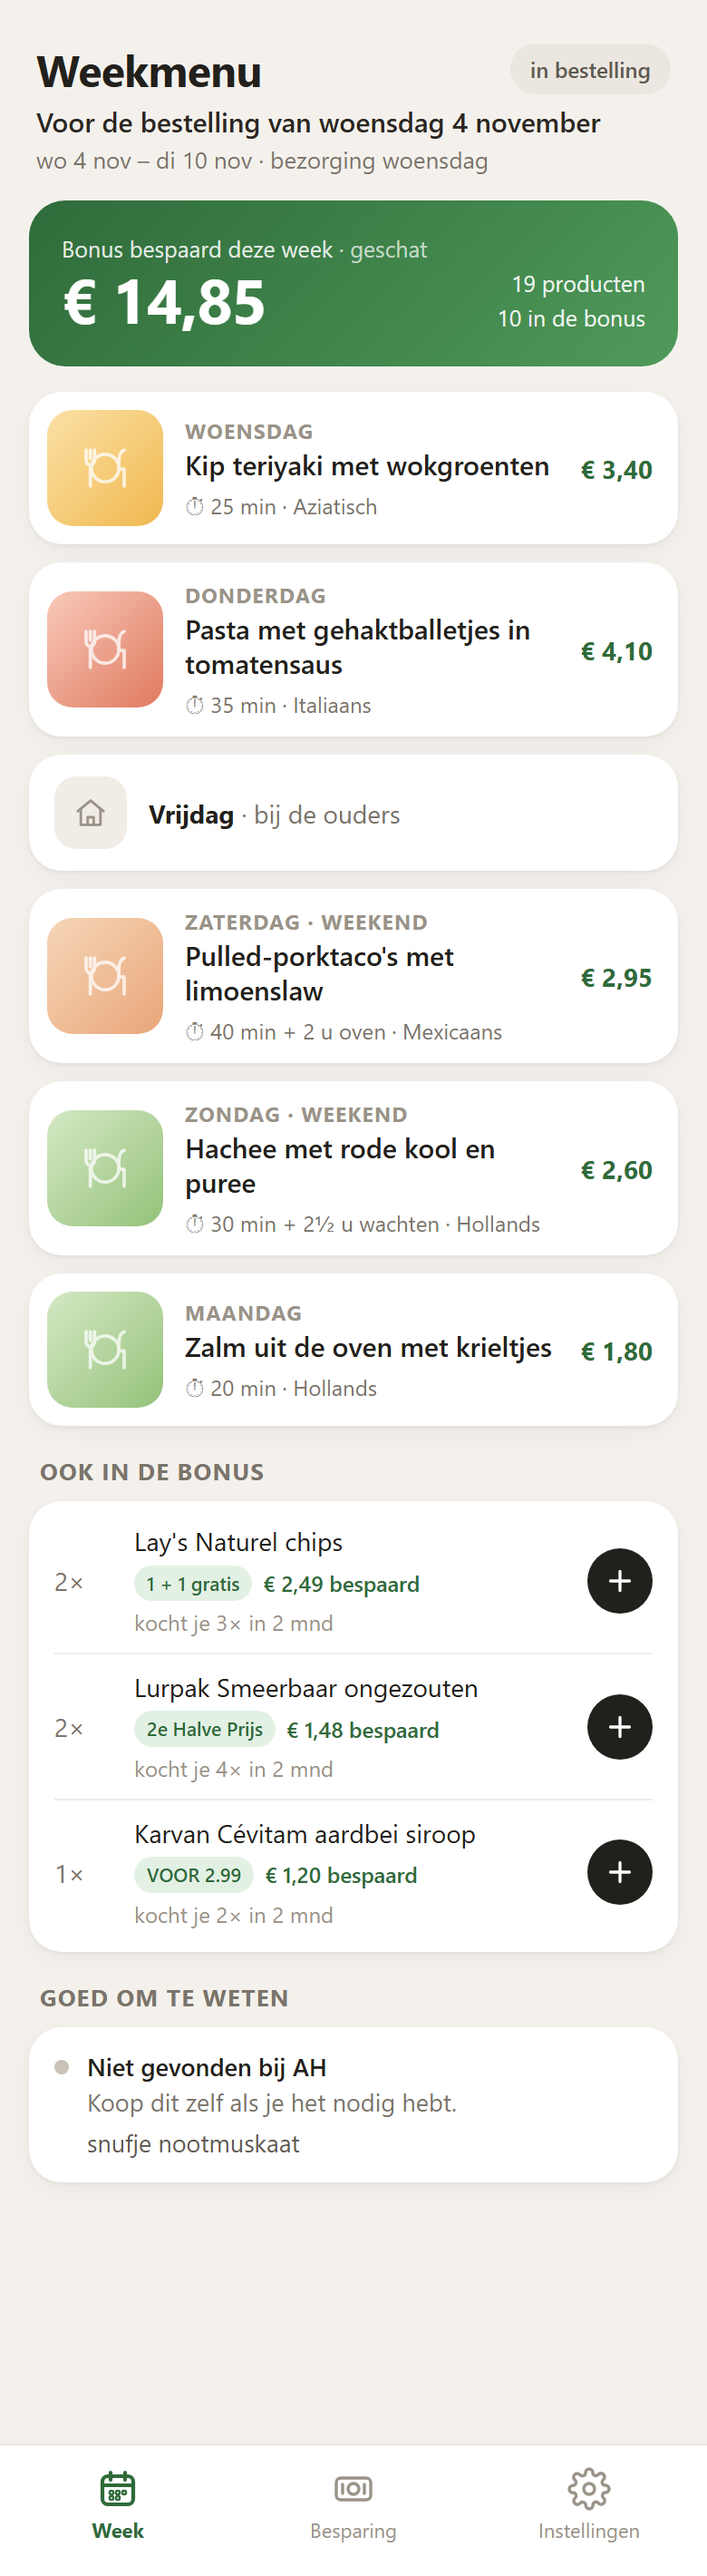
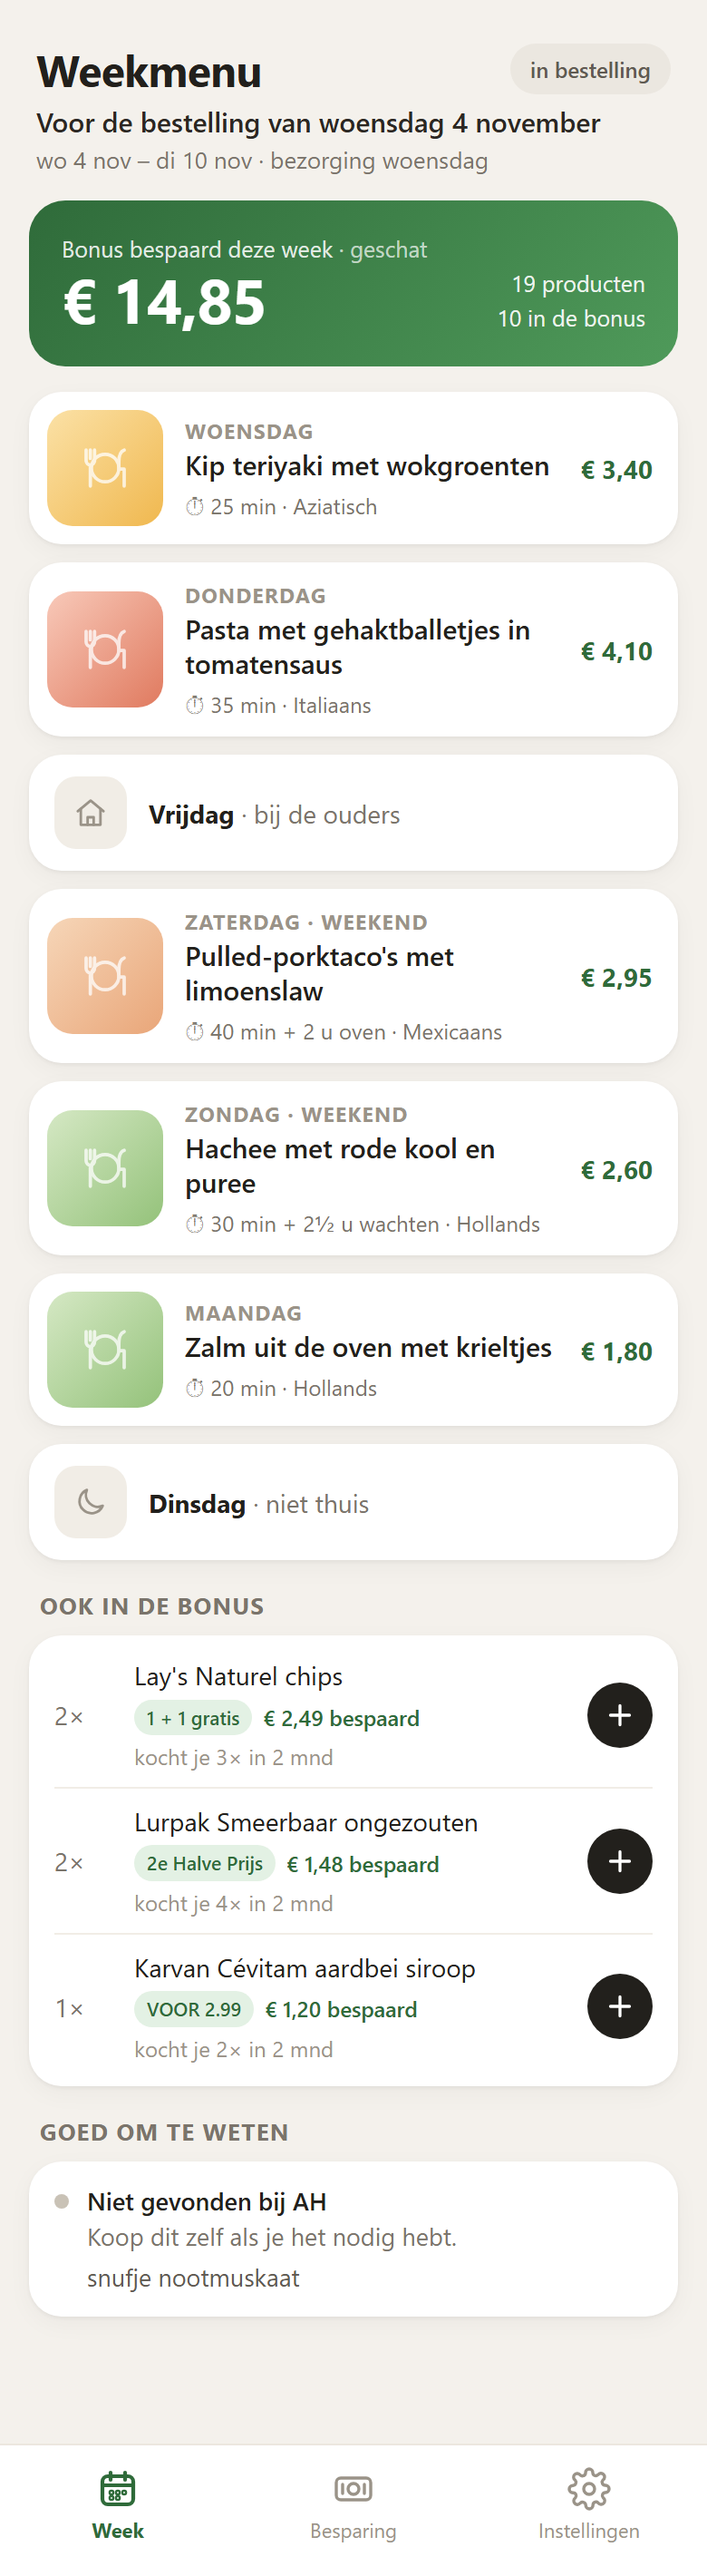
feat: app toont Niet thuis voor 0 personen, instellingen 0 tot 8, versie 0.2.1

Changed region(s): [[0.0615, 0.5577, 0.6769, 0.8986], [0.8308, 0.5887, 0.9231, 0.8056]]

diff --git a/weekmenu/app/static/app.js b/weekmenu/app/static/app.js
@@ -107,6 +107,7 @@ function plural(n, one, many) { return `${n} ${n === 1 ? one : many}`; }
 const ICON = {
   plate: '<svg class="fallback" viewBox="0 0 24 24" aria-hidden="true"><circle cx="12" cy="12" r="6.5"/><path d="M3 3.5v5a2 2 0 0 0 2 2v10M5 3.5v4M7 3.5v5a2 2 0 0 1-2 2M21 3.5c-1.7.6-2.5 2.6-2.5 5.5v3.5H21v8"/></svg>',
   home: '<svg viewBox="0 0 24 24" aria-hidden="true"><path d="M3.5 11 12 4l8.5 7"/><path d="M5.5 9.5V20h13V9.5"/><path d="M10 20v-5h4v5"/></svg>',
+  moon: '<svg viewBox="0 0 24 24" aria-hidden="true"><path d="M20 14.5A8 8 0 0 1 9.5 4 8 8 0 1 0 20 14.5z"/></svg>',
   back: '<svg viewBox="0 0 24 24" aria-hidden="true"><path d="M19 12H5M11 6l-6 6 6 6"/></svg>',
   people: '<svg viewBox="0 0 24 24" aria-hidden="true"><circle cx="9" cy="8" r="3.2"/><path d="M3 19.5c.6-3.3 3-5 6-5s5.4 1.7 6 5"/><circle cx="17" cy="9" r="2.5"/><path d="M16 14.6c2.6-.2 4.5 1.4 5 4.4"/></svg>',
   book: '<svg viewBox="0 0 24 24" aria-hidden="true"><path d="M4 5.5C6.5 4 9.5 4 12 5.5v14C9.5 18 6.5 18 4 19.5z"/><path d="M20 5.5C17.5 4 14.5 4 12 5.5v14c2.5-1.5 5.5-1.5 8 0z"/></svg>',
@@ -295,6 +296,10 @@ function dayCard(d) {
     return `<div class="card skip"><div class="ic">${ICON.home}</div>
       <div><b>${esc(cap(d.dag))}</b> · bij de ouders</div></div>`;
   }
+  if (d.niet_thuis) {
+    return `<div class="card skip"><div class="ic">${ICON.moon}</div>
+      <div><b>${esc(cap(d.dag))}</b> · niet thuis</div></div>`;
+  }
   const r = d.recipe;
   const label = esc(cap(d.dag)) + (tonight ? ' · <span class="now">vanavond</span>'
     : weekend ? " · weekend" : "");
@@ -349,7 +354,10 @@ function weekScreen() {
     html += `<div class="card note"><span class="spin dark"></span><div><b>Er wordt een menu gemaakt</b>
       <span class="muted">Dit duurt meestal een minuut.</span></div></div>`;
   }
-  if (!w.days.length && w.enabled === false) {
+  if (!w.days.length && w.geen_avonden) {
+    html += `<div class="card empty"><b>Alle avonden niet thuis</b>
+      Er wordt geen menu gemaakt. Zet bij Instellingen een avond weer op 1 of meer personen om een menu te krijgen.</div>`;
+  } else if (!w.days.length && w.enabled === false) {
     html += `<div class="card empty"><b>Het weekmenu staat uit</b>
       Er wordt nu geen menu gemaakt. Zet het aan bij Instellingen, of tik op Nu maken.</div>
       <button class="btn pri full" data-run="nu_maken">Nu maken</button>`;
@@ -468,7 +476,8 @@ function settingsScreen() {
   const boxes = WEEK_ORDER.map((dag) => {
     const ouders = dag === s.ouders;
     const n = s.persons[dag];
-    return `<button class="box${ouders ? " x" : ""}" data-pers="${dag}" ${ouders ? "disabled" : ""} aria-label="Personen op ${dag}"><b>${ouders ? "–" : esc(n)}</b>${DAGEN_KORT[dag]}</button>`;
+    const away = !ouders && Number(n) === 0;
+    return `<button class="box${ouders ? " x" : ""}${away ? " away" : ""}" data-pers="${dag}" ${ouders ? "disabled" : ""} aria-label="${away ? `Personen op ${dag}: niet thuis` : `Personen op ${dag}`}"><b>${ouders ? "–" : esc(n)}</b>${DAGEN_KORT[dag]}</button>`;
   }).join("");
   const note = s.defaulted && s.defaulted.length
     ? `<div class="card note"><span class="dot"></span><div><b>Niet alle helpers gevonden in Home Assistant</b><span class="muted">Waar een helper ontbreekt, staat de standaardwaarde.</span></div></div>` : "";
@@ -484,7 +493,7 @@ function settingsScreen() {
         <button data-avonden="${s.avonden + 1}" aria-label="Meer kookavonden" ${s.avonden >= 7 ? "disabled" : ""}>+</button></div></div>
       <div class="lbl2">Bij de ouders</div>
       <div class="tw">${chips}</div>
-      <div class="lbl2">Personen per avond <span class="hint">· tik om te wijzigen</span></div>
+      <div class="lbl2">Personen per avond <span class="hint">· tik om te wijzigen, 0 is niet thuis</span></div>
       <div class="days">${boxes}</div>
     </div>
     <div class="btnrow"><button class="btn sec2" data-run="nieuw_menu">${ICON.refresh} Nieuw menu</button>
@@ -714,7 +723,7 @@ app.addEventListener("click", async (ev) => {
   }
   if (t.dataset.pers) {
     const dag = t.dataset.pers;
-    const n = (Number(s.persons[dag]) % 8) + 1;
+    const n = (Number(s.persons[dag]) + 1) % 9;  // 0 (niet thuis) t/m 8
     await busy(t, async () => { await setSetting(s.entities.persons[dag], n); s.persons[dag] = n; });
     render();
   }

diff --git a/weekmenu/app/static/app.css b/weekmenu/app/static/app.css
@@ -146,6 +146,8 @@ h2{font-size:22px;margin:4px 20px 8px;letter-spacing:-.3px;line-height:1.25}
 .box b{display:block;font-size:15px;color:#22201c}
 .box.x{background:#22201c;color:#fff}
 .box.x b{color:#fff}
+.box.away{background:transparent;border:1px dashed #cfc8bc}
+.box.away b{color:#9a9388}
 
 /* login */
 .login{padding:18px 16px 16px}

diff --git a/weekmenu/tests/test_frontend.py b/weekmenu/tests/test_frontend.py
@@ -148,6 +148,7 @@ def build_ctx(tmp_path):
     ctx.store.save(Tokens("test-access", "test-refresh", 9e9))
     ctx.hass.states[HELPER_OUDERS] = "vrijdag"
     ctx.hass.states[helper_persons()["zaterdag"]] = "4"
+    ctx.hass.states[helper_persons()["dinsdag"]] = "0"  # niet thuis
     plan = fake_plan()
     ctx.ledger.save(WeekLog(W, plan=plan.to_dict(), added=dict(plan.basket), target="order",
                             savings=plan.savings, counted=True,
@@ -241,6 +242,7 @@ def test_app_screens_in_chrome(tmp_path):
         for title in TITLES:
             assert title.replace("'", "&#39;") in dom or title in dom, title
         assert "bij de ouders" in dom
+        assert "Dinsdag</b> · niet thuis" in dom
         assert "€ 14,85" in dom
         assert "geschat" in dom
         assert "19 producten" in dom and "10 in de bonus" in dom
@@ -271,6 +273,7 @@ def test_app_screens_in_chrome(tmp_path):
         dom = render(base, "#instellingen", tmp_path, "instellingen")
         assert "Kookavonden" in dom and "Bij de ouders" in dom and "Nieuw menu" in dom
         assert "Nu maken" in dom
+        assert 'class="box away"' in dom and "Personen op dinsdag: niet thuis" in dom
         assert 'href="#inloggen"' in dom and "Opnieuw inloggen" in dom
 
         dom = render(base, "#inloggen", tmp_path, "opnieuw-inloggen")
